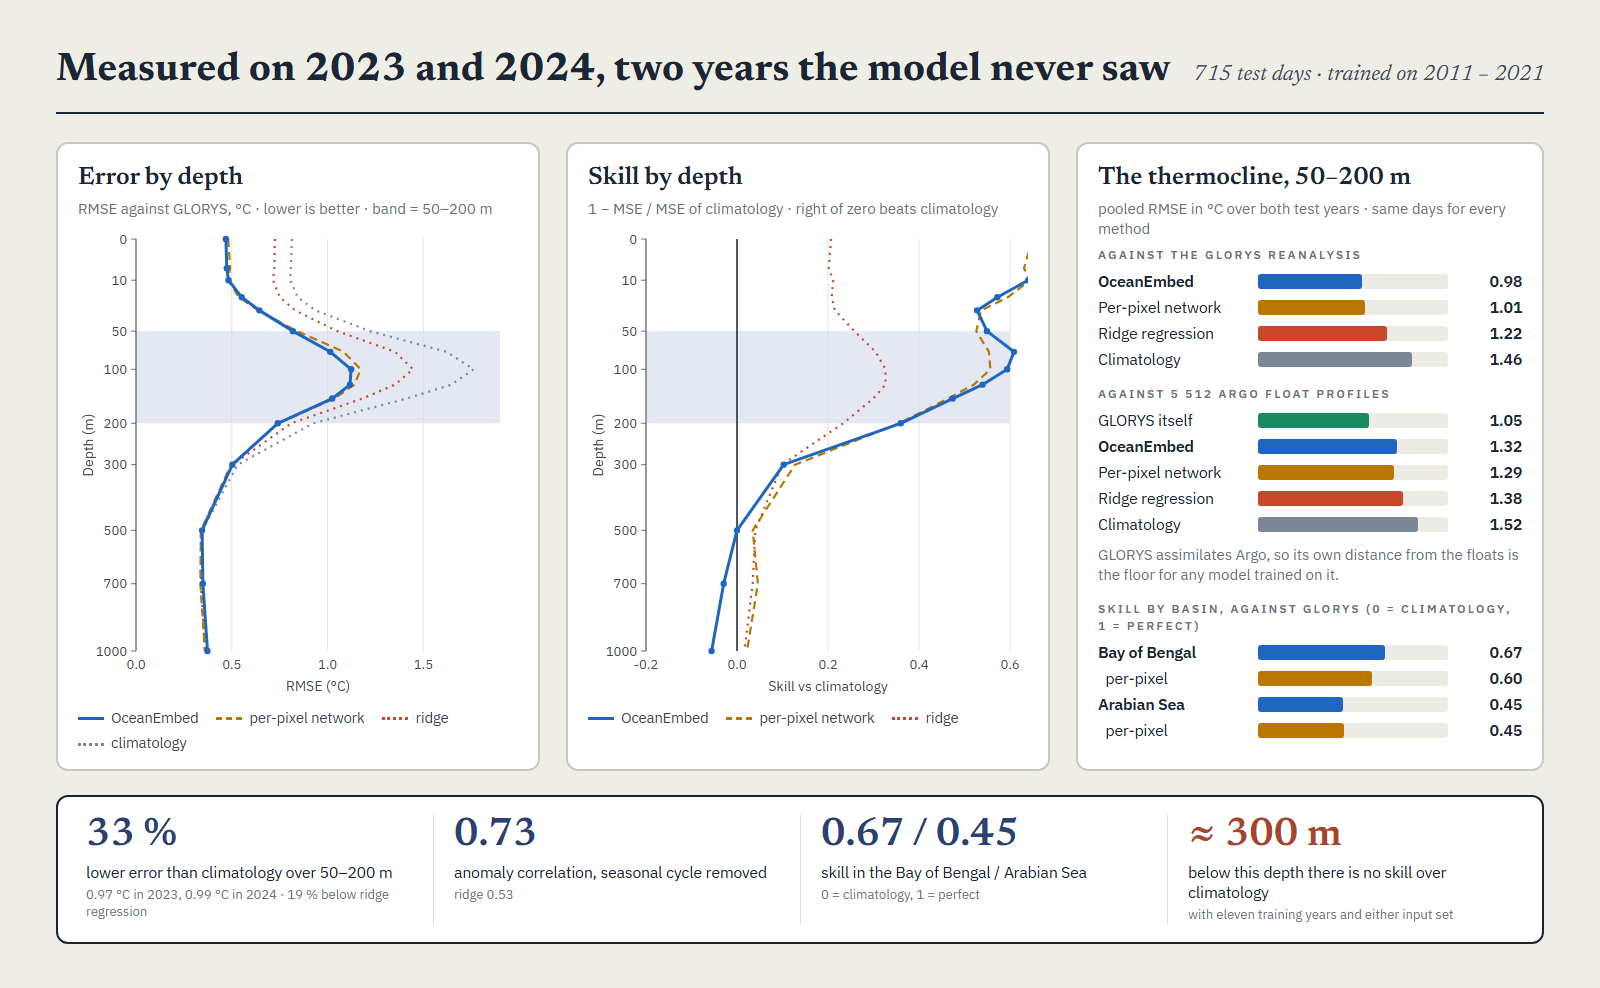
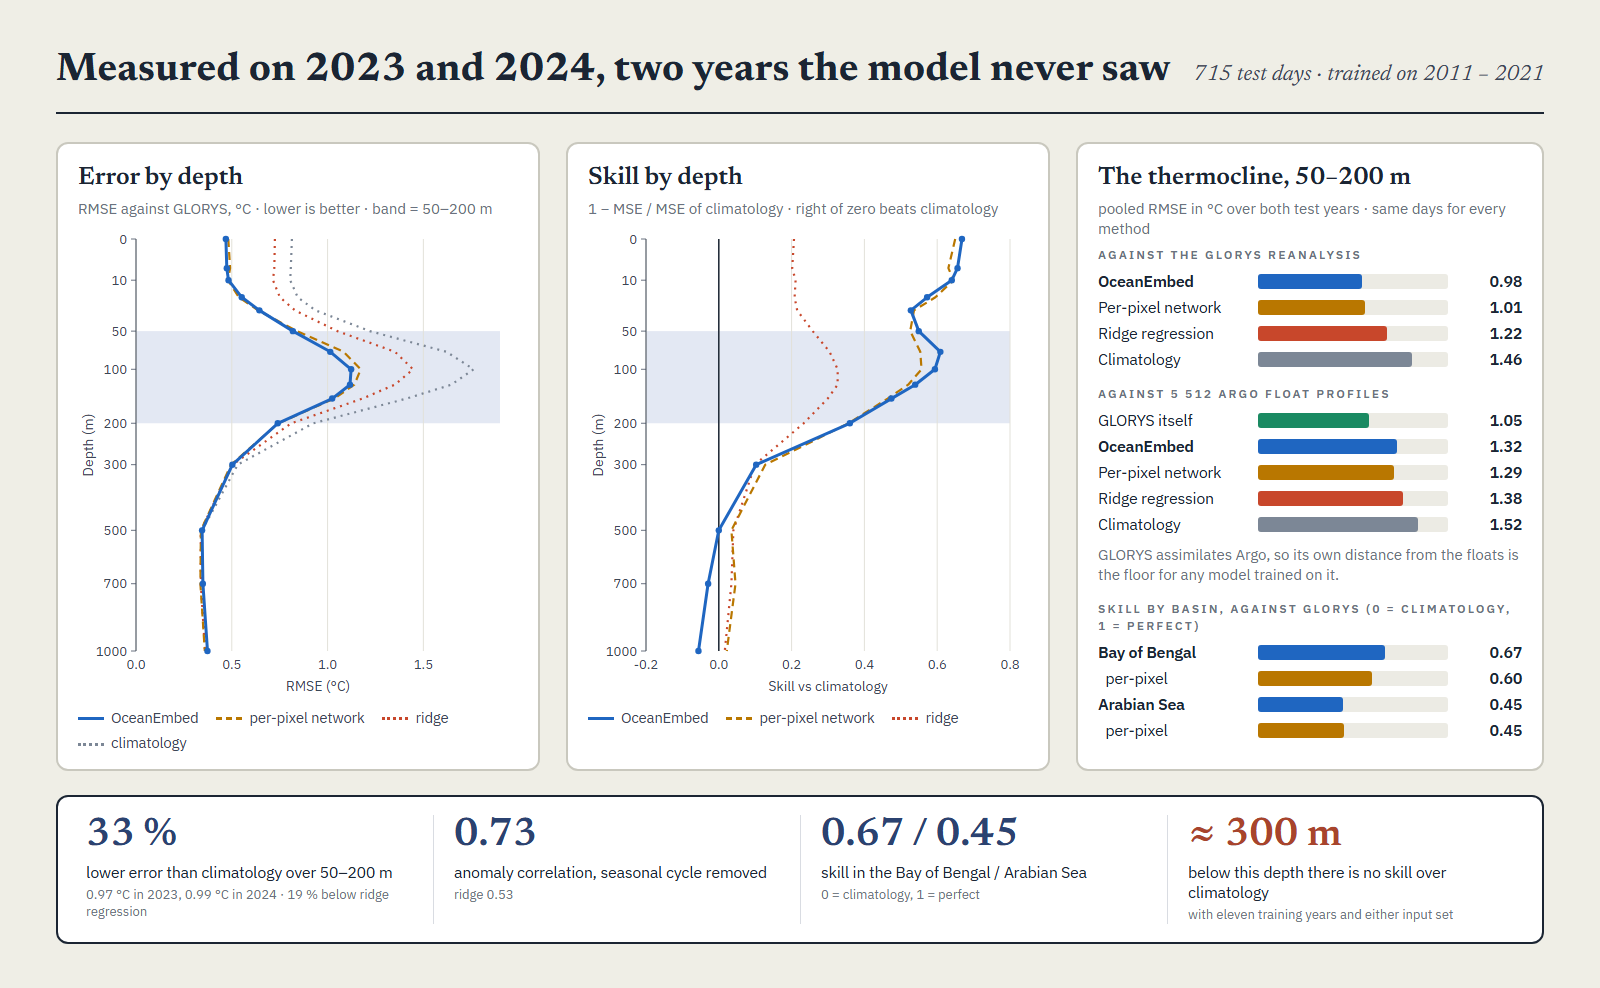
Widen the skill axis of the results figure

diff --git a/docs/figures/results.html b/docs/figures/results.html
@@ -115,7 +115,7 @@
     });
   }
   chart("rmse", 0, 1.9, [0, 0.5, 1.0, 1.5], ["clim", "ridge", "scr", "model"], function (v) { return v; }, "RMSE (°C)", false);
-  chart("skill", -0.2, 0.6, [-0.2, 0, 0.2, 0.4, 0.6], ["ridge", "scr", "model"], function (v, i) { return 1 - (v * v) / (R.clim[i] * R.clim[i]); }, "Skill vs climatology", true);
+  chart("skill", -0.2, 0.8, [-0.2, 0, 0.2, 0.4, 0.6, 0.8], ["ridge", "scr", "model"], function (v, i) { return 1 - (v * v) / (R.clim[i] * R.clim[i]); }, "Skill vs climatology", true);
 })();
 </script>
 </body></html>
